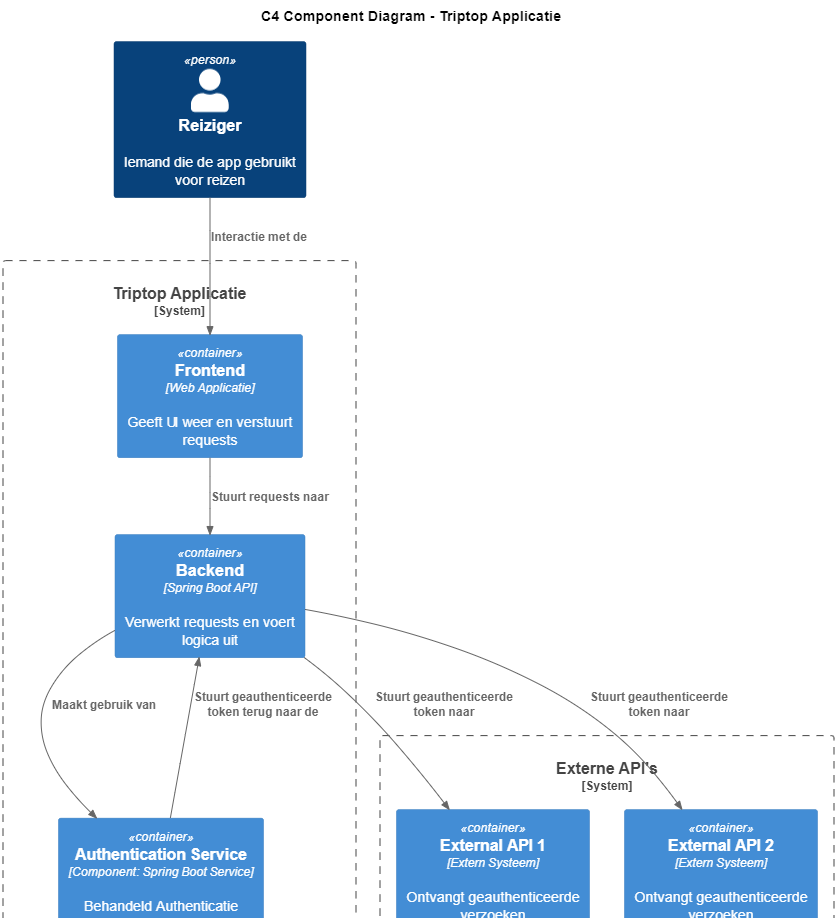
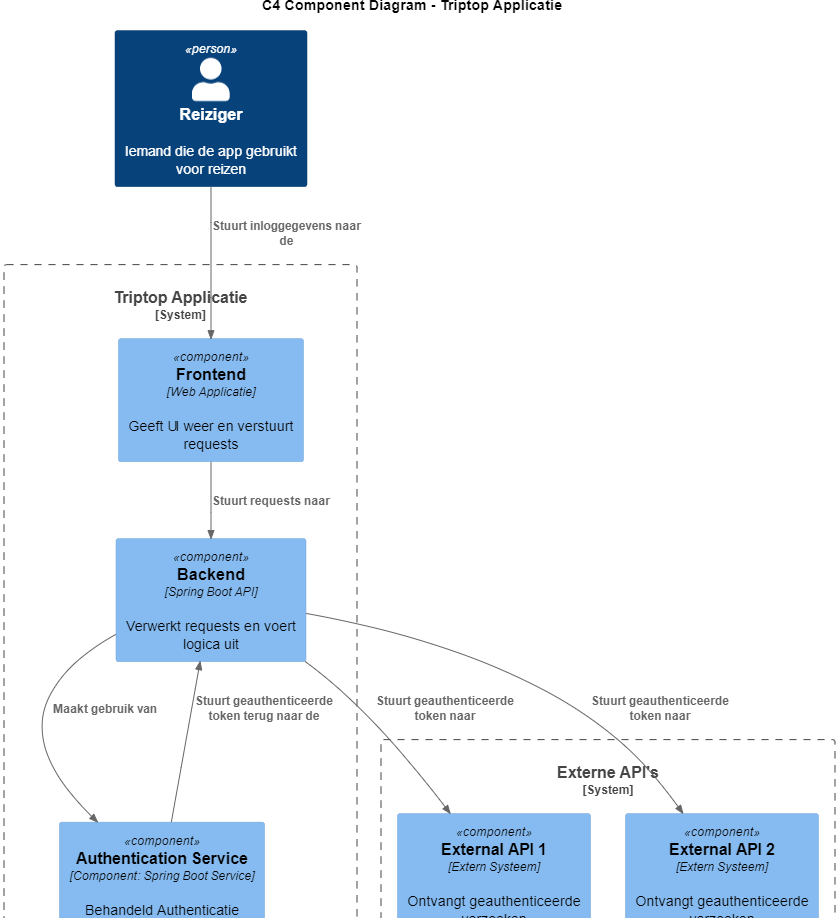
Feedback Mischa verwerkt

diff --git a/software-guidebook/README.md b/software-guidebook/README.md
@@ -81,18 +81,17 @@ _Afbeelding 6: Dynamic Diagram login._
 _Afbeelding 7: Dynamic Diagram reis boeken._
 
 ### 7.3. Componenten
-> [!IMPORTANT]
-> Voeg toe: Component Diagram plus een Dynamic Diagram van een aantal scenario's inclusief begeleidende tekst.
-
 #### 7.3.1. Hoe zorg je ervoor dat authenticatie en autorisatie consistent worden toegepast bij het communiceren met verschillende externe API's?
 ##### Component diagram
-Voor deze onderzoeksvraag heb ik als eerste een component diagram gemaakt. Dit diagram toont de architectuur van de Triptop applicatie, inclusief de interactie tussen de gebruiker en het systeem. Dit diagram is gefocust op het authenticeren van een gebruiker voor het versturen van API verzoeken (zie afbeelding 8).
+Voor deze onderzoeksvraag hebben we als eerste een component diagram gemaakt. Wij hebben voor het onderzoeken van deze onderzoeksvraag gebruik gemaakt van het strategy pattern. Dit houdt in dat er door een interface de juiste implementatie van de methode (om te authenticeren) wordt aangeroepen. Zo kan je verschillende strategieën (zoals username, key of secret) implementeren voor het authenticeren zonder andere code in je applicatie te hoeven wijzigen. Dit maakt het mogelijk om eenvoudig te schakelen tussen verschillende authenticatiemethoden.
+
+Dit diagram toont de architectuur van de Triptop applicatie, inclusief de interactie tussen de gebruiker en het systeem. Dit diagram is gefocust op het authenticeren van een gebruiker voor het versturen van API verzoeken (zie afbeelding 8). Het is hierbij belangrijk om te vermelden dat de authentication service, ondanks dat hij los staat van de backend, wel in de backend hoort. Deze hebben wij hier losgekoppeld om duidelijk de interactie aan te geven tussen de 'controller'/frontend en de authenticatie service.
 
 ![Component Diagram Authenticeren](/opdracht-diagrammen/C4-Diagrammen/ComponentDiagramMischa.png)
 _Afbeelding 8: Component diagram authenticeren._
 
 ##### Dynamisch diagram
-Dit dynamisch diagram toont de authenticatieflow binnen de Triptop applicatie (zie afbeelding 9). De gebruiker logt in via de frontend, die de inloggegevens doorstuurt naar de backend. De backend valideert deze gegevens via de Authentication Service, die op zijn beurt een externe authenticatie service aanroept. Na successvolle validatie wordt een token gegenereerd en teruggestuurd naar de gebruiker. Deze token wordt vervolgens gebruikt om (geauthenticeerde) verzoeken naar de externe API's te versturen.
+Dit dynamisch diagram toont de authenticatieflow binnen de Triptop applicatie (zie afbeelding 9). De gebruiker logt in via de frontend, die de inloggegevens doorstuurt naar de backend. De backend valideert deze gegevens via de Authentication Service, die op zijn beurt een externe authenticatie service aanroept. Na successvolle validatie wordt een token gegenereerd en teruggestuurd naar de gebruiker. Deze token wordt vervolgens gebruikt om (geauthenticeerde) verzoeken naar de externe API's te versturen. Net zoals bij het component diagram is het belangrijk om te vermelden dat authenticatie service, desondanks het los staat van de backend, bij de backend hoort. Ook hier is de reden dat wij het los hebben vermeld om duidelijker de interactie tussen de 'controller'/frontend en de authenticatie service aan te tonen.
 
 ![Dynamisch Diagram Authenticeren](/opdracht-diagrammen/C4-Diagrammen/DynamischDiagramMischa.png)
 _Afbeelding 9: Dynamisch diagram authenticeren._
@@ -118,12 +117,9 @@ Je kan hierin zien hoe de adapter wordt gebruikt en hoe de adapter een rol speel
 ![Dynamisch Component Diagram Adapter pattern](/opdracht-diagrammen/C4-Diagrammen/DynamischDiagramAdapterJamiro.png)
 _Afbeelding 10: Sequence Diagram Adapter pattern._
 ### 7.4. Design & Code
-> [!IMPORTANT]
-> Voeg toe: Per ontwerpvraag een Class Diagram plus een Sequence Diagram van een aantal scenario's inclusief begeleidende tekst.
-
 #### 7.4.1. Hoe zorg je ervoor dat authenticatie en autorisatie consistent worden toegepast bij het communiceren met verschillende externe API's?
 ##### Klasse diagram
-Voor deze onderzoeksvraag heb ik met gebruik van het component diagram (zie afbeelding 8) een klasse diagram gemaakt. Voor dit klasse diagram heb ik gebruik gemaakt van het **strategy pattern**. Dit heb ik gedaan met het idee dat er makkelijk gewisseld kan worden tussen verschillende manieren voor authenticatie voor de verschillende API's zonder veel code aan te hoeven passen (zie afbeelding 10).
+Wij hebben voor deze onderzoeksvraag een klasse diagram ontworpen (zie afbeelding 8) op basis van de eerder benoemde **strategy pattern**. Het is belangrijk om te vermelden dat we alleen hebben gefocust op het authenticeren. Dit is gedaan met de gedachten dat het autorisatie op dezelfde manier geïmplementeert kan worden als authenticatie met alleen de code in de functies zelf anders.
 
 ![Klasse Diagram Authenticeren](/opdracht-diagrammen/C4-Diagrammen/C4-Class-Diagram-Mischa.png)
 _Afbeelding 11: Klasse diagram authenticeren._
@@ -254,13 +250,10 @@ Wij gaan de JWT tokens opslaan in de session storage. Hier hebben wij voor gekoz
 - Tokens moeten opnieuw worden opgehaald na het sluiten en heropenen van de browser, wat een extra stap kan zijn voor de gebruiker.
 
 ### 8.3. ADR-003 BookingAPI wordt gebruikt voor hotels, vluchten en autoverhuur
-
 #### Status
-
 Niet meer van toepassing
 
 #### Context
-
 Wij zochten API's die wij konden gebruiken voor het zoeken van hotels, vluchten en autoverhuur.
 
 #### Overwogen opties
@@ -278,11 +271,9 @@ _Tabel 3: ADR-003 Overwogen opties ._
 Booking.com en Priceline.com bieden uitgebreide documentatie, zijn betrouwbaar en schaalbaar door hun grote gebruikersbasis. Flights scraper is vaak minder betrouwbaar en schaalbaar, afhankelijk van het scrapen van gegevens. TravelData heeft gemiddelde documentatie, betrouwbaarheid en schaalbaarheid.
 
 #### Besluit
-
 Wij hebben besloten om Booking.com te gebruiken voor het zoeken van hotels, vluchten en autoverhuur. Dit is omdat Booking.com uitgebreide documentatie biedt, betrouwbaar is en schaalbaar is door zijn grote gebruikersbasis en het is bekender binnen de team dan Priceline.com.
 
 #### Consequenties
-
 ##### Positief
 - Kan hierdoor veel in bij dezelfde API afhandelen
 
@@ -291,14 +282,70 @@ Wij hebben besloten om Booking.com te gebruiken voor het zoeken van hotels, vluc
 - Mocht deze API ooit veranderen moeten we alles veranderen wat onder vluchten, hotels en auto verhuur valt.
 - Mocht deze API ooit vervallen/out of business gaan, werkt veel van onze applicatie niet meer
 
-### 8.4. ADR-004 Voor exterene Api's gebruiken wij de adapter pattern 
-
+### 8.4. ADR-004 Voor authenticeren en authoriseren gebruiken wij de strategy pattern
 #### Status
-
 Voorgesteld
 
 #### Context
+Bij de ontwerpvraag:
 
+```Hoe zorg je ervoor dat authenticatie en autorisatie consistent worden toegepast bij het communiceren met verschillende externe API's?```
+
+Hebben wij onderzocht hoe wij kunnen voorkomen dat wij consistent authenticatie en autorisatie kunnen toepassen bij de verschillende externe API's.
+
+#### Overwogen opties
+
+|                        	| Flexibiliteit 	| Onderhoudbaarheid 	| Complexiteit 	|
+|------------------------	|---------------	|-------------------	|--------------	|
+| State pattern          	| +             	| +                 	| --           	|
+| Adapter pattern        	| +             	| ++                	| -            	|
+| Strategy pattern       	| ++            	| ++                	| +            	|
+| Facade pattern         	| -             	| +                 	| +            	|
+| Factory method pattern 	| +             	| +                 	| -            	|
+
+_Tabel 4: Overwogen opties authenticeren strategy._
+
+##### Flexibiliteit
+- **State pattern**: Kan nuttig zijn voor toestandsafhankelijke authenticatie en autorisatie, maar is minder geschikt voor het toepassen van verschillende authenticatie- en autorisatiestrategieën.
+- **Adapter pattern**: Zorgt voor compatibiliteit tussen verschillende API-authenticatie- en autorisatiemethoden, maar biedt minder flexibiliteit in strategieën.
+- **Strategy pattern**: Biedt hoge flexibiliteit doordat verschillende authenticatie- en autorisatiestrategieën eenvoudig verwisselbaar zijn.
+- **Facade pattern**: Vereenvoudigt de toegang tot authenticatie en autorisatie, maar beperkt de flexibiliteit.
+
+##### Onderhoudbaarheid
+- **State pattern**: Code blijft redelijk onderhoudbaar, maar kan complex worden bij veel toestanden.
+- **Adapter pattern**: Hoge onderhoudbaarheid doordat het bestaande implementaties hergebruikt zonder deze te wijzigen.
+- **Strategy pattern**: Hoge onderhoudbaarheid doordat strategieën los van elkaar ontwikkeld en aangepast kunnen worden.
+- **Facade pattern**: Code blijft overzichtelijk, maar aanpassingen aan de onderliggende implementatie kunnen impact hebben op de gehele interface.
+- **Factory method**: Maakt het makkelijk om nieuwe strategieën toe te voegen, maar is minder gestructureerd dan het strategy pattern.
+
+##### Complexiteit
+- **State pattern**: Hoge complexiteit bij meerdere authenticatie- en autorisatietoestanden.
+- **Adapter pattern**: Lage complexiteit, maar minder krachtig voor het wisselen van strategieën.
+- **Strategy pattern**: Gematigde complexiteit, maar de beste balans tussen flexibiliteit en onderhoudbaarheid.
+- **Facade pattern**: Lage complexiteit, maar beperkt in functionaliteit.
+- **Factory method**: Lage tot gematigde complexiteit, afhankelijk van het aantal gecreëerde objecten.
+
+#### Besluit
+Wij hebben gekozen voor het **strategy pattern**. Dit patroon maakt het eenvoudig om verschillende authenticatie- en autorisatiestrategieën te definiëren en toe te passen zonder hiervoor de andere code te moeten wijzigen. Hierdoor kunnen we makkelijk communiceren met meerdere externe API's door hiervoor de juiste authenticatie- en autorisatiemethode aan te roepen.
+
+#### Consequenties
+##### Positief
+- Hoge flexibiliteit zorgt ervoor dat we eenvoudig verschillende authenticatie- en autorisatiestrategieën kunnen implementeren.
+- Code blijft overzichtelijk en goed onderhoudbaar.
+- Nieuwe authenticatie- en autorisatiemethoden kunnen gemakkelijk worden toegevoegd zonder de bestaande code te wijzigen.
+
+##### Neutraal
+- Initieel iets meer werk om het strategy pattern op te zetten, maar dit compenseert met de uitbreidbaarheid.
+
+##### Negatief
+- Meer afzonderlijke klassen en interfaces, wat het aantal klassen vergroot.
+- Ontwikkelaars moeten bekend zijn met het strategy pattern om de implementatie ervan goed te begrijpen en te gebruiken.
+
+### 8.5. ADR-005 Voor exterene Api's gebruiken wij de adapter pattern 
+#### Status
+Voorgesteld
+
+#### Context
 Bij de ontwerpvraag: 
 
 ```Hoe zorg je ervoor dat je bij een wijziging in de datastructuur van een externe service niet de hele applicatie hoeft aan te passen?```
@@ -306,7 +353,6 @@ Bij de ontwerpvraag:
 Hebben wij onderzocht hoe wij kunnen voorkomen dat wij de gehele applicatie zouden moeten aanpassen als een externe service wordt aangepast.
 
 #### Overwogen opties
-
 - State pattern
 - Adapter pattern
 - Strategy pattern
@@ -325,7 +371,6 @@ Vereenvoudigt een complex systeem door een enkele, gebruiksvriendelijk interface
 Biedt een manier om objecten te maken zonder expliciet de exacte klasse van het te maken object te specificeren.
 
 #### Besluit
-
 Na ons onderzoek bleek het *__Adapter Pattern__* de beste keuze te zijn.
 We hebben hiervoor gekozen. 
 Omdat een adapter het mogelijk maakt om wijzigingen in de externe API of een overstap naar een andere provider eenvoudig door te voeren.
@@ -334,7 +379,6 @@ Dit minimaliseert de impact op de rest van de applicatie en maakt onderhoud eenv
 Dit beantwoordt ook de ontwerpvraag.
 
 #### Consequenties
-
 ##### Positief
 - Decoupling, De hoofdlogica van de applicatie blijft onafhankelijk van externe API's of systemen
 - Eenvoudig van externe API's en systemen wisselen
@@ -348,14 +392,11 @@ Dit beantwoordt ook de ontwerpvraag.
 - Door het extra formateren en transformeren van data kan dit zorgen voor een kleine vertraging
 
 
-### 8.5. ADR-005 Herziening van ADR-003 - Minder afhankelijkheid van Booking.com
-
+### 8.6. ADR-006 Herziening van ADR-003 - Minder afhankelijkheid van Booking.com
 #### Status
-
 Voorgesteld
 
 #### Context
-
 Bij [ADR-003](#83-adr-003-bookingapi-wordt-gebruikt-voor-hotels-vluchten-en-autoverhuur)
 wouden wij het besluit maken om de booking.com api te gebruiken voor hotels, vluchten en autoverhuur.
 Als groep gaan wij hier van af zien. De reden hiervoor is als deze API er uit ligt. 3 groten delen van onze applicatie niet meer werkt
@@ -365,39 +406,32 @@ De regel die wij willen hanteren is dat een API maar voor 1 onderdeel gebruikt m
 Je mag hotels ophalen boeken ect. Maar je mag Booking.com niet gebruiken voor vluchten of auto verhuur.
 
 #### Overwogen opties
-
 - Veel afhankelijkheden van dezelfde API
 - Weinig afhankelijkheid van een API
 
 #### Besluit
-
 Wij kiezen ervoor om zo min mogelijk afhankelijk te zijn van één enkele API. 
 Het doel is om te voorkomen dat de applicatie grotendeels niet meer werkt wanneer één API uitvalt of volledig verdwijnt.
 Hoewel het nooit mogelijk is om te garanderen dat een API altijd beschikbaar blijft, kunnen we de risico’s beperken door meerdere API's te gebruiken voor verschillende doeleinden.
 
 #### Consequenties
-
 ##### Positief
 - Als een API niet werkt, ligt niet heel de applicatie plat
 
 ##### Negatief
 - Hiervoor moeten wij wel veel herschrijven/opnieuw doen
 
-### 8.6. ADR-006 Voorkeur voor externe api communicatie met authenticatie
-
+### 8.7. ADR-007 Voorkeur voor externe api communicatie met authenticatie
 #### Status
-
 Voorgesteld
 
 #### Context
-
 Wij zochten manieren hoe wij volgens ons het beste kunnen communiceren met een externe IdentityProvider. De drie opties waar wij uit konden kiezen waren:
 - Vanuit de frontend direct communiceren met de IdentityProvider
 - Vanuit de frontend met een eigen backend communiceren die vervolgens met de IdentityProvider communiceert
 - Een hybride oplossing waarbij de frontend en backend beide communiceren met de IdentityProvider
 
 #### Overwogen opties
-
 - Directe communicatie vanuit de frontend
     - Voordelen: Snel, geen extra laag
     - Nadelen: Minder veilig, minder controle
@@ -409,11 +443,9 @@ Wij zochten manieren hoe wij volgens ons het beste kunnen communiceren met een e
     - Nadelen: Complexer, extra laag
 
 #### Besluit
-
 Wij hebben uiteindelijk besloten om niet de externe IdentityProvider direct vanuit de frontend te benaderen, maar wel om een eigen backend te gebruiken die vervolgens met de IdentityProvider communiceert.
 
 #### Consequenties
-
 Positief
 - Verhoogde veiligheid doordat de backend de communicatie met de IdentityProvider afhandelt.
 - Meer controle over de authenticatie- en autorisatieprocessen.

diff --git a/feedback/feedback-week2.md b/feedback/feedback-week2.md
@@ -1,7 +1,7 @@
 # Feedback week 2 
 - [ ] ADR voor en nadelen waren soms wat te algemeen (ADR van taha)
-- [ ] Duidelijker de patterns aangeven (Mischa)
-- [ ] Backend + een losse service?(Robs feedback op mischa???)
+- [x] Duidelijker de patterns aangeven (Mischa)
+- [x] Backend + een losse service?(Robs feedback op mischa???)
 - [x] Losse enum lijst in diagram, (dacht van mischa)
 - [x] Jamiros component diagrammen MVC SPRING ADAPTER aanpassen naar java klassse(jamiro)
 - [x] Voordeel van het adapter is niet duidelijk genoeg (Jamiro)
